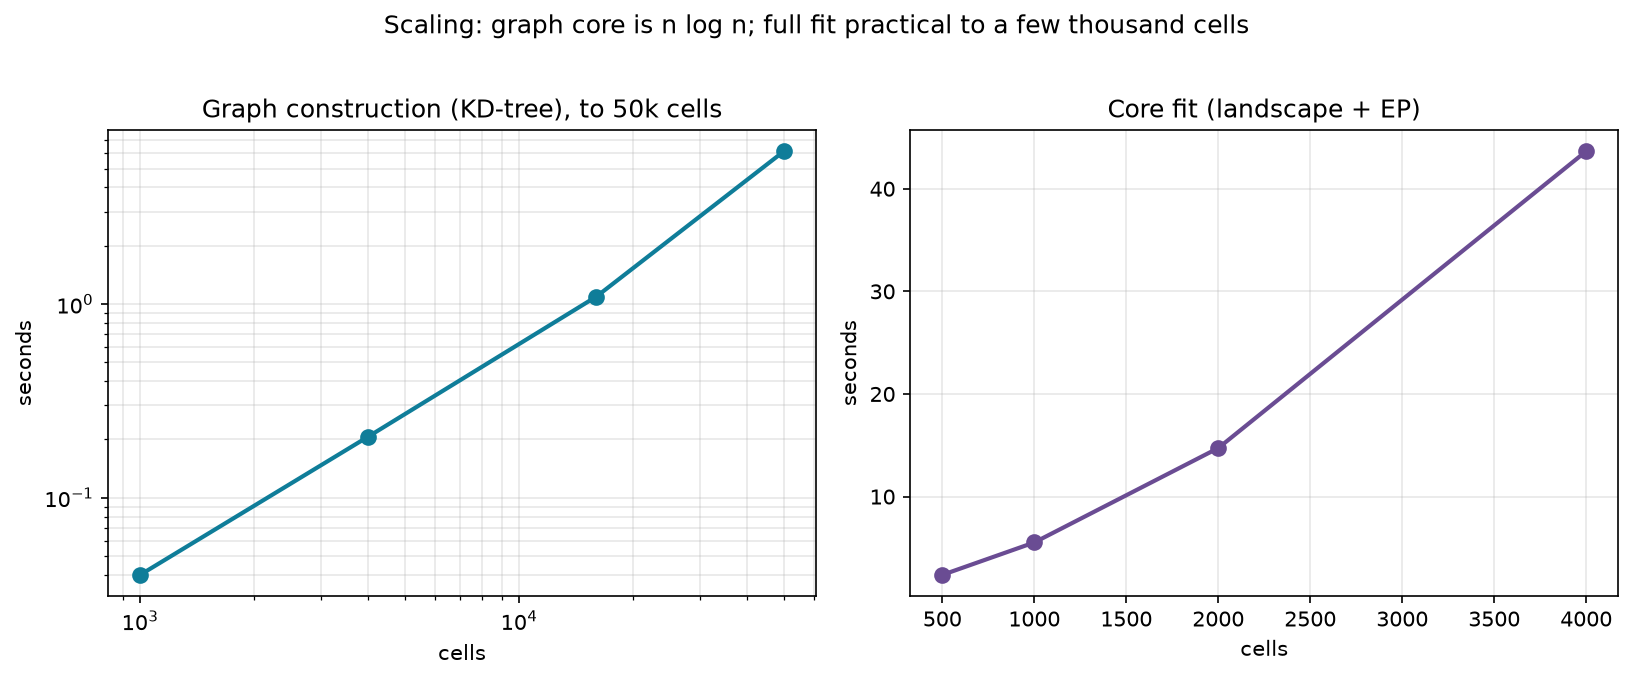
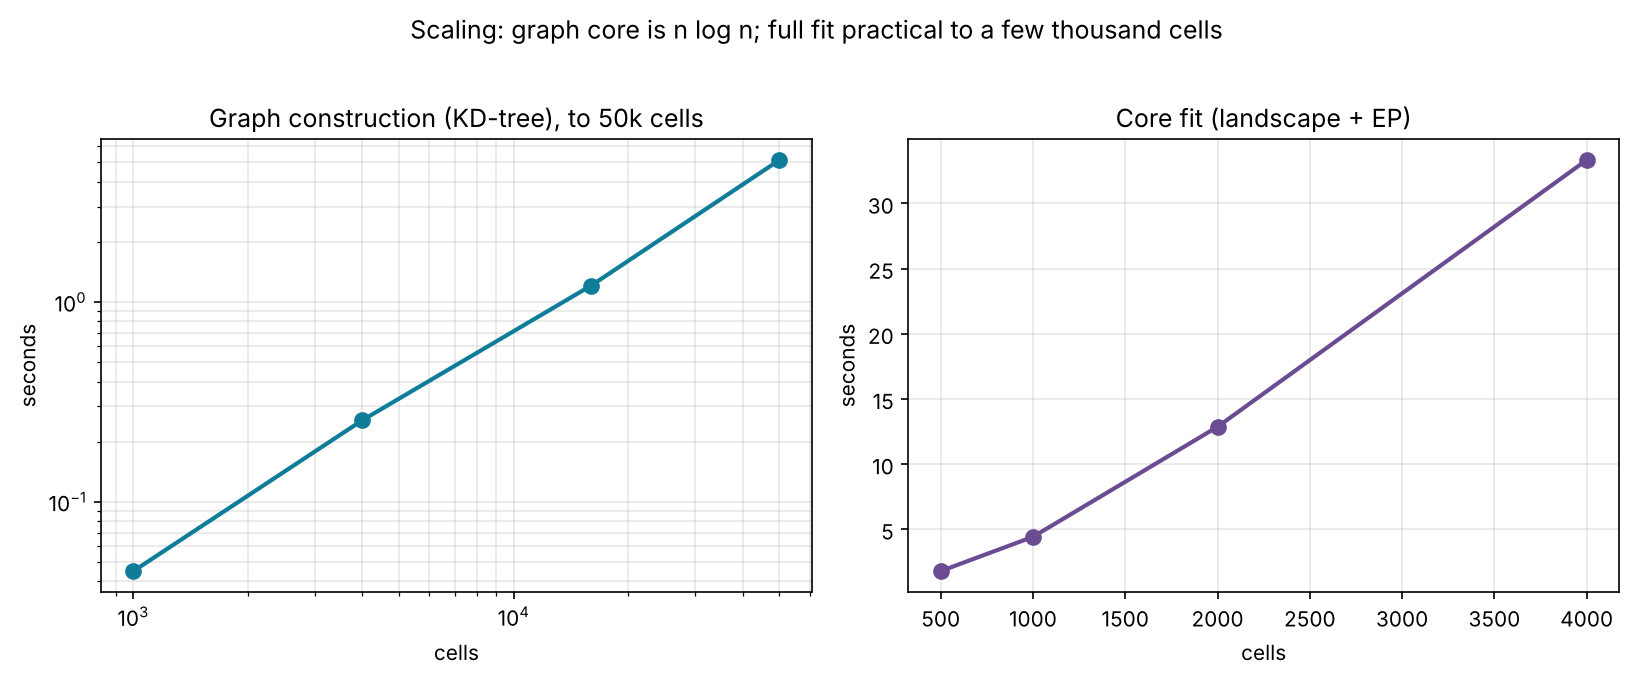
Noise-matched readout on all four lineages; correct the pancreas excess (1.3.0)
- benchmarks/irreversibility_real.py reports the noise-matched excess for
  pancreas, gastrulation and bone marrow, and draws all four lineages on one
  figure (figures/irreversibility_four_tissues.png): -0.011, -0.005, -0.010
  and -0.007 for the fly germline, all |z| <= 1. None circulates beyond its
  own noise.
- The "modest pancreas excess" (+0.05 over the clean floor) stated in the
  README, docs and manuscript is noise under the noise-matched null;
  corrected everywhere, keeping the near-1D detection-power caveat.
- benchmarks/plot_overview.py regenerates the overview diagram; docs index
  and getting-started list the new readouts. Version 1.3.0.

diff --git a/benchmarks/irreversibility_real.py b/benchmarks/irreversibility_real.py
@@ -24,7 +24,7 @@ import numpy as np
 from generalization import DATASETS, load_dataset
 
 from thermodynamic_waddington.graph import build_knn
-from thermodynamic_waddington.irreversibility import cyclic_irreversibility
+from thermodynamic_waddington.irreversibility import cyclic_irreversibility, noise_matched_irreversibility
 
 
 def pca_project(expr, vel, dims=6):
@@ -33,6 +33,11 @@ def pca_project(expr, vel, dims=6):
     _, _, vt = np.linalg.svd(Xc, full_matrices=False)
     comp = vt[:dims].T                       # genes x dims
     return Xc @ comp, np.asarray(vel, dtype=float) @ comp
+
+
+def noise_matched(pts, vel, seed=0):
+    g = build_knn(pts.tolist(), 20)
+    return noise_matched_irreversibility(pts, vel, g, seed=seed)
 
 
 def frac(pts, vel, seed=0):
@@ -52,7 +57,9 @@ def detection_power(spec, cells=1500, genes=100, omegas=(0.0, 0.5, 1.0, 2.0)):
     scale = np.linalg.norm(v) / (np.linalg.norm(rot) + 1e-12)
     out = []
     for w in omegas:
-        out.append({"omega": w, "cyclic_fraction": round(frac(pts, v + w * scale * rot, 0), 4)})
+        nm = noise_matched(pts, v + w * scale * rot, 0)
+        out.append({"omega": w, "cyclic_fraction": round(frac(pts, v + w * scale * rot, 0), 4),
+                    "noise_matched_excess": round(nm.excess, 4), "noise_matched_z": round(nm.z, 2)})
     return out
 
 
@@ -61,7 +68,7 @@ def run(cells=1500, genes=100, seeds=5):
     for spec in DATASETS:
         sp, vel, lab = load_dataset(spec["path"], spec["key"], spec["lineage"], genes)
         n = sp.shape[0]
-        real, floor, ceil = [], [], []
+        real, floor, ceil, nm = [], [], [], []
         for s in range(seeds):
             idx = np.random.default_rng(s).choice(n, size=min(cells, n), replace=False)
             pts, v = pca_project(sp[idx], vel[idx])
@@ -70,6 +77,7 @@ def run(cells=1500, genes=100, seeds=5):
             floor.append(frac(pts, radial, s))
             shuf = v[np.random.default_rng(100 + s).permutation(len(idx))]
             ceil.append(frac(pts, shuf, s))
+            nm.append(noise_matched(pts, v, s))
         row = {
             "dataset": spec["dataset"], "tissue": spec["tissue"], "n_cells": int(min(cells, n)),
             "cyclic_fraction_real": round(float(np.mean(real)), 4),
@@ -77,27 +85,62 @@ def run(cells=1500, genes=100, seeds=5):
             "gradient_floor": round(float(np.mean(floor)), 4),
             "random_ceiling": round(float(np.mean(ceil)), 4),
             "excess_over_floor": round(float(np.mean(real) - np.mean(floor)), 4),
+            "noise_matched_excess": round(float(np.mean([r.excess for r in nm])), 4),
+            "noise_matched_excess_std": round(float(np.std([r.excess for r in nm])), 4),
+            "noise_matched_z": round(float(np.mean([r.z for r in nm])), 2),
         }
         results.append(row)
         print(f"  {row['dataset']:24s} real={row['cyclic_fraction_real']:.3f}  "
               f"gradient floor={row['gradient_floor']:.3f}  random ceiling={row['random_ceiling']:.3f}  "
-              f"excess={row['excess_over_floor']:+.3f}", flush=True)
+              f"excess={row['excess_over_floor']:+.3f}  noise-matched={row['noise_matched_excess']:+.3f} "
+              f"(z={row['noise_matched_z']:+.1f})", flush=True)
     print("detection power on real pancreas geometry (inject known circulation):", flush=True)
     power = detection_power(DATASETS[0], cells, genes)
     for row in power:
-        print(f"    injected omega={row['omega']}: cyclic_fraction={row['cyclic_fraction']}", flush=True)
+        print(f"    injected omega={row['omega']}: cyclic_fraction={row['cyclic_fraction']}  "
+              f"noise-matched={row['noise_matched_excess']:+.3f} (z={row['noise_matched_z']:+.1f})", flush=True)
 
     report = {
         "benchmark": "irreversibility_real_cyclic_fraction",
         "setup": f"{cells} cells, {genes} genes, {seeds} seeds, PCA(6) space, proxy velocity",
         "results": results,
         "detection_power_pancreas_geometry": power,
-        "note": "Cyclic fraction of real velocity vs a matched gradient (reversible) floor and a shuffled ceiling on the same cells. Excess over the floor indicates circulation beyond what a reversible field produces at this sample size. Descriptive placement, not a calibrated p-value. detection_power injects a PC1-PC2 rotation into the real geometry: it barely moves the fraction, because these lineages are near-1D and a 1D structure has no cycles to carry circulation. The measure's power is established on the 2D synthetic ground truth (AUROC 1.0), not here; this null is consistent with the near-floor real result.",
+        "note": "Cyclic fraction of real velocity vs a matched gradient (reversible) floor and a shuffled ceiling on the same cells. Excess over the floor indicates circulation beyond what a reversible field produces at this sample size. Descriptive placement, not a calibrated p-value. detection_power injects a PC1-PC2 rotation into the real geometry: it barely moves the fraction, because these lineages are near-1D and a 1D structure has no cycles to carry circulation. The measure's power is established on the 2D synthetic ground truth (AUROC 1.0), not here; this null is consistent with the near-floor real result. noise_matched_excess reads the same field against a null built from the data's own noise (noise_matched_irreversibility), robust to velocity noise and sequencing depth.",
     }
     Path("experiments").mkdir(exist_ok=True)
     Path("experiments/irreversibility_real.json").write_text(json.dumps(report, indent=2))
     print("wrote experiments/irreversibility_real.json")
+    plot(report, "figures/irreversibility_four_tissues.png")
     return report
+
+
+def plot(report, out):
+    """All tissues on one scale: clean-floor excess vs noise-matched excess."""
+    import matplotlib
+    matplotlib.use("Agg")
+    import matplotlib.pyplot as plt
+
+    rows = [{"dataset": r["dataset"], "naive": r["excess_over_floor"], "nm": r["noise_matched_excess"],
+             "nm_std": r["noise_matched_excess_std"]} for r in report["results"]]
+    fly = Path("experiments/fly_testis.json")
+    if fly.exists():
+        irr = json.loads(fly.read_text())["irreversibility"]
+        rows.append({"dataset": "fly testis germline", "naive": irr["excess_over_floor"],
+                     "nm": irr["noise_matched"]["excess"], "nm_std": irr["noise_matched"]["excess_std"]})
+    x = np.arange(len(rows))
+    fig, ax = plt.subplots(figsize=(9, 4.6))
+    ax.bar(x - 0.2, [r["naive"] for r in rows], 0.4, color="#9aa5b1", label="excess over clean floor")
+    ax.bar(x + 0.2, [r["nm"] for r in rows], 0.4, yerr=[r["nm_std"] for r in rows], capsize=3,
+           color="#0f7d99", label="noise-matched excess")
+    ax.axhline(0, color="k", lw=0.8)
+    ax.set_xticks(x, [r["dataset"].replace(" ", "\n", 1) for r in rows])
+    ax.set_ylabel("excess cyclic (irreversible) fraction")
+    ax.set_title("Four developmental lineages, two phyla: flow is reversible within its own noise")
+    ax.legend(frameon=False)
+    ax.grid(axis="y", alpha=0.3)
+    fig.tight_layout()
+    fig.savefig(out, dpi=160, bbox_inches="tight", facecolor="white")
+    print(f"wrote {out}")
 
 
 if __name__ == "__main__":

diff --git a/benchmarks/plot_overview.py b/benchmarks/plot_overview.py
@@ -1,0 +1,62 @@
+"""Pipeline overview diagram (figures/tw_pipeline_overview.png).
+
+    python benchmarks/plot_overview.py
+"""
+from __future__ import annotations
+
+import matplotlib
+
+matplotlib.use("Agg")
+import matplotlib.pyplot as plt  # noqa: E402
+from matplotlib.patches import FancyBboxPatch  # noqa: E402
+
+INK, MUTED, LINE = "#1f2933", "#52606d", "#9aa5b1"
+TEAL, PURPLE, AMBER = "#0f7d99", "#6a4c93", "#b7791f"
+
+
+def main(out="figures/tw_pipeline_overview.png"):
+    fig, ax = plt.subplots(figsize=(13, 6.4), dpi=200)
+    ax.set_xlim(0, 13)
+    ax.set_ylim(0, 6.4)
+    ax.axis("off")
+
+    def box(x, y, w, h, title, body, color):
+        ax.add_patch(FancyBboxPatch((x, y), w, h, boxstyle="round,pad=0.02,rounding_size=0.12",
+                                    fc="#ffffff", ec=color, lw=1.8))
+        ax.text(x + w / 2, y + h - 0.3, title, ha="center", va="top", fontsize=11.5, weight="bold", color=color)
+        ax.text(x + w / 2, y + h - 0.72, body, ha="center", va="top", fontsize=9, color=INK, linespacing=1.4)
+
+    def arrow(x0, y0, x1, y1):
+        ax.annotate("", xy=(x1, y1), xytext=(x0, y0),
+                    arrowprops=dict(arrowstyle="-|>", color=LINE, lw=1.6, shrinkA=2, shrinkB=2))
+
+    ax.text(0.2, 6.15, "Thermodynamic Waddington Pipeline: how it works", fontsize=15, weight="bold",
+            color=INK, va="top")
+    ax.text(0.2, 5.7, "A thermodynamic layer on top of any RNA-velocity workflow (scVelo, CellRank, ...)",
+            fontsize=10, color=MUTED, va="top")
+    box(0.2, 1.9, 2.3, 2.6, "Input", "scRNA-seq\nexpression\n+ RNA velocity\n(scVelo, or a\nspliced/unspliced\nproxy)", MUTED)
+    box(3.1, 1.9, 2.3, 2.6, "Cell-state graph",
+        "PCA embedding\nexact KD-tree kNN\n(50k cells\nin seconds)\n\nvelocity = flow\non each edge", MUTED)
+    arrow(2.5, 3.2, 3.1, 3.2)
+    rows = [
+        (3.85, "Hodge decomposition", "flow = gradient (reversible)\n+ cyclic (irreversible)", TEAL,
+         "Calibrated irreversibility", "noise-matched null: false\npositives 100% -> 0%"),
+        (2.2, "Transition-path theory", "committor q: 0 = progenitor,\n1 = terminal fate", PURPLE,
+         "Commitment barrier", "PMF along q, in kT\npancreas: 1.6 kT [1.4, 1.9]"),
+        (0.55, "Jarzynski path work", "free-energy landscape +\ndensity-anchored kT scale", AMBER,
+         "kT landscape", "pseudopotential in kT\n~5 kT deep (pancreas)"),
+    ]
+    for y, t1, b1, c, t2, b2 in rows:
+        box(6.0, y, 3.0, 1.4, t1, b1, c)
+        box(9.6, y, 3.2, 1.4, t2, b2, c)
+        arrow(5.4, 3.2, 6.0, y + 0.7)
+        arrow(9.0, y + 0.7, 9.6, y + 0.7)
+    ax.text(0.2, 1.25, "Validated on 4 lineages, 2 phyla:\npancreas, gastrulation, bone marrow,\nDrosophila testis "
+            "(Fly Cell Atlas)", fontsize=8.5, color=MUTED, va="top", linespacing=1.4)
+    ax.text(0.2, 0.35, "230+ tests · lint-clean CI · typed · MIT", fontsize=8.5, color=MUTED, va="top")
+    fig.savefig(out, bbox_inches="tight", facecolor="white")
+    print(f"wrote {out}")
+
+
+if __name__ == "__main__":
+    main()

diff --git a/thermodynamic_waddington/__init__.py b/thermodynamic_waddington/__init__.py
@@ -6,7 +6,7 @@ from importlib.metadata import version as _pkg_version
 try:
     __version__ = _pkg_version("thermodynamic-waddington")
 except PackageNotFoundError:
-    __version__ = "1.2.0"
+    __version__ = "1.3.0"
 
 from .causal import InterventionEffect, intervention_scan, rank_targets
 from .config import FitConfig

diff --git a/README.md b/README.md
@@ -2,7 +2,7 @@
 
 [![CI](https://github.com/Cypherspec/thermodynamic-waddington-pipeline/actions/workflows/ci.yml/badge.svg)](https://github.com/Cypherspec/thermodynamic-waddington-pipeline/actions/workflows/ci.yml)
 [![Python](https://img.shields.io/badge/python-3.10%2B-blue.svg)](https://www.python.org/)
-[![Version](https://img.shields.io/badge/version-1.2.0-blue.svg)](CHANGELOG.md)
+[![Version](https://img.shields.io/badge/version-1.3.0-blue.svg)](CHANGELOG.md)
 [![Tests](https://img.shields.io/badge/tests-230%20passing-brightgreen.svg)](tests)
 [![License: MIT](https://img.shields.io/badge/License-MIT-blue.svg)](LICENSE)
 [![Docs](https://img.shields.io/badge/docs-online-teal.svg)](https://cypherspec.github.io/Thermodynamic-Waddington-Pipeline/)
@@ -116,10 +116,11 @@ heuristic, and on a synthetic *equilibrium* field it false-positives every time
 flow into reversible (gradient) and irreversible (cyclic) parts — is validated on
 ground truth: AUROC **1.00** separating equilibrium from non-equilibrium with
 monotonic recovery of a known drive, where the old test scores 0.44 and coherence
-0.53. Applied to real proxy velocity, the three developmental lineages are close
-to gradient-like (pancreas carries a modest excess over the reversible floor,
-gastrulation and bone marrow essentially none) — the correct, honest reading: a
-linear lineage has an arrow of time but little circulation.
+0.53. Applied to real proxy velocity and read against a noise-matched null, all
+four developmental lineages (pancreas, gastrulation, bone marrow, fly testis) are
+reversible within their own noise (excess -0.011 to -0.005) — the correct,
+honest reading: a linear lineage has an arrow of time but little circulation. A
+small pancreas excess over the clean floor (+0.05) turned out to be noise.
 
 ![irreversibility ground truth](figures/synthetic_ground_truth.png)
 
@@ -223,8 +224,11 @@ loop the software analyzes and would run the
 
 The irreversibility measure is calibrated on synthetic ground truth (correct FPR,
 AUROC 1.0, monotonic recovery). On real proxy velocity it shows the three
-developmental lineages are close to gradient-like (reversible): only pancreas
-carries a modest cyclic excess. This **corrects** an earlier claim: the
+developmental lineages are gradient-like (reversible): against the noise-matched
+null none of the four lineages, in two phyla, shows circulation beyond its own
+noise (the earlier +0.05 pancreas excess over the clean floor was noise), though
+power to detect circulation on these near-1D geometries is low. This **corrects**
+an earlier claim: the
 density-based Seifert permutation test reported significant entropy production
 across tissues, but it over-detects (100% false-positive rate on equilibrium
 ground truth), so that reading did not survive calibration. The legacy EP test and
@@ -245,7 +249,7 @@ falsifiable test of the commitment prediction is preregistered in
 @software{kommisetty_thermodynamic_waddington,
   author  = {Kommisetty, Nischay},
   title   = {Thermodynamic Waddington Pipeline},
-  version = {1.2.0},
+  version = {1.3.0},
   year    = {2026},
   url     = {https://github.com/Cypherspec/Thermodynamic-Waddington-Pipeline},
   license = {MIT}

diff --git a/paper/manuscript.md b/paper/manuscript.md
@@ -28,9 +28,10 @@ decomposition of the velocity flow into gradient (reversible) and cyclic
 (irreversible) parts. The cyclic fraction is calibrated on the same ground truth
 (AUROC 1.00, monotonic in a known drive, equilibrium floor 0.12). Applied to three
 developmental lineages (pancreatic endocrinogenesis, gastrulation erythropoiesis,
-bone marrow erythropoiesis), it shows they are close to reversible: pancreas
-carries a modest excess of 0.05 over a matched gradient floor, the other two
-essentially none, under both a velocity proxy and scVelo dynamical velocity. The
+bone marrow erythropoiesis), it shows they are close to reversible. Against a
+noise-free gradient floor pancreas appears to carry a small excess (0.05), but a
+noise-matched null, which we introduce because noise itself looks cyclic, shows
+that none of the lineages circulates beyond its own noise. The
 same holds in a second phylum: on Drosophila spermatogenesis (Fly Cell Atlas),
 with velocity built from the raw reads, the germline is near-reversible, and the
 committor orders it far better than principal-component pseudotime. On
@@ -147,7 +148,9 @@ the cyclic fraction of real proxy velocity against a matched gradient floor is
 0.151 vs 0.099 on pancreatic endocrinogenesis (Bastidas-Ponce et al., 2019;
 excess +0.051), 0.080 vs 0.085 on gastrulation erythropoiesis (Pijuan-Sala et
 al., 2019; -0.005), and 0.108 vs 0.097 on bone marrow erythropoiesis (Setty et al., 2019; +0.012),
-all far below a shuffled ceiling of 0.29-0.35. On 800 pancreas cells, scVelo
+all far below a shuffled ceiling of 0.29-0.35. Against the noise-matched null
+introduced below, the excess is -0.011, -0.005 and -0.010 (|z| <= 1): the
+pancreas excess over the clean floor is noise. On 800 pancreas cells, scVelo
 dynamical velocity gives the same reading as the proxy (excess -0.001 vs -0.003).
 A linear lineage has an arrow of time, carried by the committor, but little
 circulation. We note a limit on this null: injecting a rotation into the real
@@ -184,7 +187,8 @@ signs; the method's own bias is estimated on reference datasets that are
 reversible by construction and subtracted. Across 200 ground-truth runs the
 false-positive rate at equilibrium falls from 1.00 to 0.00 at every noise level,
 and pooled equilibrium-vs-driven AUROC rises from 0.76 to 0.96, with power
-decreasing with noise as expected.
+decreasing with noise as expected. Applied to all four real lineages, it finds no
+circulation beyond noise in any of them.
 
 **A second phylum: Drosophila spermatogenesis.** The Fly Cell Atlas testis (Li
 et al., 2022) provides no spliced/unspliced layers, so we built them from the

diff --git a/docs/benchmarks.md b/docs/benchmarks.md
@@ -25,19 +25,25 @@ non-equilibrium where coherence sits at 0.53. `benchmarks/synthetic_ground_truth
 **What the real tissues show (reported straight).** On real proxy velocity the
 three developmental lineages are close to gradient-like:
 
-| tissue | cyclic fraction | reversible floor | excess |
-|---|---|---|---|
-| pancreas endocrine | 0.151 | 0.099 | **+0.051** |
-| gastrulation erythroid | 0.080 | 0.085 | -0.005 |
-| bone marrow erythroid | 0.108 | 0.097 | +0.012 |
+| tissue | cyclic fraction | clean floor | excess over clean floor | noise-matched excess |
+|---|---|---|---|---|
+| pancreas endocrine | 0.151 | 0.099 | +0.051 | **-0.011** (z = -1.0) |
+| gastrulation erythroid | 0.080 | 0.085 | -0.005 | **-0.005** (z = -0.5) |
+| bone marrow erythroid | 0.108 | 0.097 | +0.012 | **-0.010** (z = -0.8) |
+| fly testis germline | 0.097 | 0.086 | +0.011 | **-0.007** (z = -0.6) |
 
-Only pancreas carries a modest excess over the reversible floor; gastrulation and
-bone marrow essentially none. A linear lineage has an arrow of time but little
+Against the clean floor pancreas looked like it carried a modest excess; against
+the noise-matched null (below) it does not, and no lineage does: all four are
+reversible within their own noise. A linear lineage has an arrow of time but little
 circulation, so low cyclic entropy production is the expected, correct result. The
 measure's power is established on the synthetic geometry above (AUROC 1.00); on
 these near-1D real lineages, even injecting a rotation barely moves the fraction,
 because a 1D structure has no cycles to carry circulation -- which is itself why
-the real result sits at the floor. `benchmarks/irreversibility_real.py`.
+the real result sits at the floor. The same holds for the noise-matched readout:
+injecting rotation into the pancreas geometry moves it only at the strongest
+drive (+0.010 at w = 2). `benchmarks/irreversibility_real.py`.
+
+![four tissues](https://raw.githubusercontent.com/Cypherspec/Thermodynamic-Waddington-Pipeline/master/figures/irreversibility_four_tissues.png)
 
 The directional progression is captured by the committor. The strong "irreversible
 across three tissues" reading of the old permutation test does not survive

diff --git a/docs/limitations.md b/docs/limitations.md
@@ -9,9 +9,12 @@ where it does not. This page is that statement. None of it is hidden elsewhere.
   equilibrium from non-equilibrium ground truth (AUROC 1.00) and tracks a known
   drive monotonically, with a correct false-positive rate. This is the core,
   defensible methodological claim.
-- **Real lineages are close to reversible.** On pancreas, gastrulation
-  erythroid, and bone marrow erythroid, the cyclic fraction sits at or modestly
-  above a matched gradient floor (pancreas +0.05, the others ~0).
+- **Real lineages are reversible within their noise.** On pancreas,
+  gastrulation erythroid, bone marrow erythroid, and the Drosophila testis
+  germline, the noise-matched excess is -0.011 to -0.005 (|z| <= 1). Against the
+  clean floor pancreas showed +0.05; the noise-matched null shows it is noise.
+  Power on these near-1D geometries is low, so this is "no circulation detected",
+  not proof of none.
 - **The commitment barrier.** 1.6 kT [1.4, 1.9] on pancreas across 8 subsamples.
 - **Committor ordering on a long staged lineage.** On Drosophila spermatogenesis
   the committor beats PC1 in 8/8 subsamples (0.78 vs 0.47).

diff --git a/CHANGELOG.md b/CHANGELOG.md
@@ -3,6 +3,24 @@
 All notable changes to this project are documented here. Format loosely follows
 Keep a Changelog. Versioning is semantic.
 
+## [1.3.0] - 2026-10-11
+
+### Changed
+- The noise-matched readout now runs on all four lineages
+  (`benchmarks/irreversibility_real.py`, new figure
+  `figures/irreversibility_four_tissues.png`): pancreas -0.011, gastrulation
+  -0.005, bone marrow -0.010, fly testis -0.007 (all |z| <= 1). None circulates
+  beyond its own noise.
+
+### Fixed
+- The docs, README and manuscript described pancreas as carrying a "modest
+  excess" (+0.05) over the reversible floor. Against the noise-matched null that
+  excess is -0.011: it was noise. Corrected everywhere; the near-1D detection-power
+  caveat is kept ("no circulation detected", not "none").
+
+### Added
+- `benchmarks/plot_overview.py` regenerates the pipeline overview diagram.
+
 ## [1.2.0] - 2026-10-11
 
 ### Added

diff --git a/docs/index.md b/docs/index.md
@@ -25,6 +25,11 @@ package replaces it with a calibrated one.
   the cyclic fraction is ~0 for reversible flow and rises with real circulation.
   AUROC 1.00 on equilibrium-vs-driven ground truth, where the naive
   entropy-production permutation test false-positives every time.
+- **Robust to noise and sequencing depth.** A noise-matched null built from the
+  data's own noise: false positives 100% -> 0% on noisy ground truth.
+- **Validated across two phyla.** Pancreas, gastrulation and bone marrow
+  (vertebrate) and Drosophila spermatogenesis (Fly Cell Atlas, velocity built
+  from the raw reads, FlyBase-linked genes).
 - **A free-energy landscape** on a physical kT scale, from a Jarzynski path-work
   functional and a density-anchored Boltzmann inversion.
 - **A commitment coordinate.** The transition-path-theory committor, which

diff --git a/docs/getting-started.md b/docs/getting-started.md
@@ -32,6 +32,8 @@ report = analyze(ds.expression, ds.velocity, labels=labels,
 
 report.irreversibility_cyclic_fraction    # calibrated irreversibility (Hodge)
 report.irreversibility_cycle_affinity_kt  # cycle affinities in kT (Schnakenberg)
+report.irreversibility_noise_matched_excess  # circulation beyond the data's own noise (~0 = reversible)
+report.irreversibility_noise_matched_z
 report.landscape_range_kt         # landscape depth in kT
 report.committor_order            # cell types ordered by commitment
 report.commitment_label           # where the committor crosses 0.5
